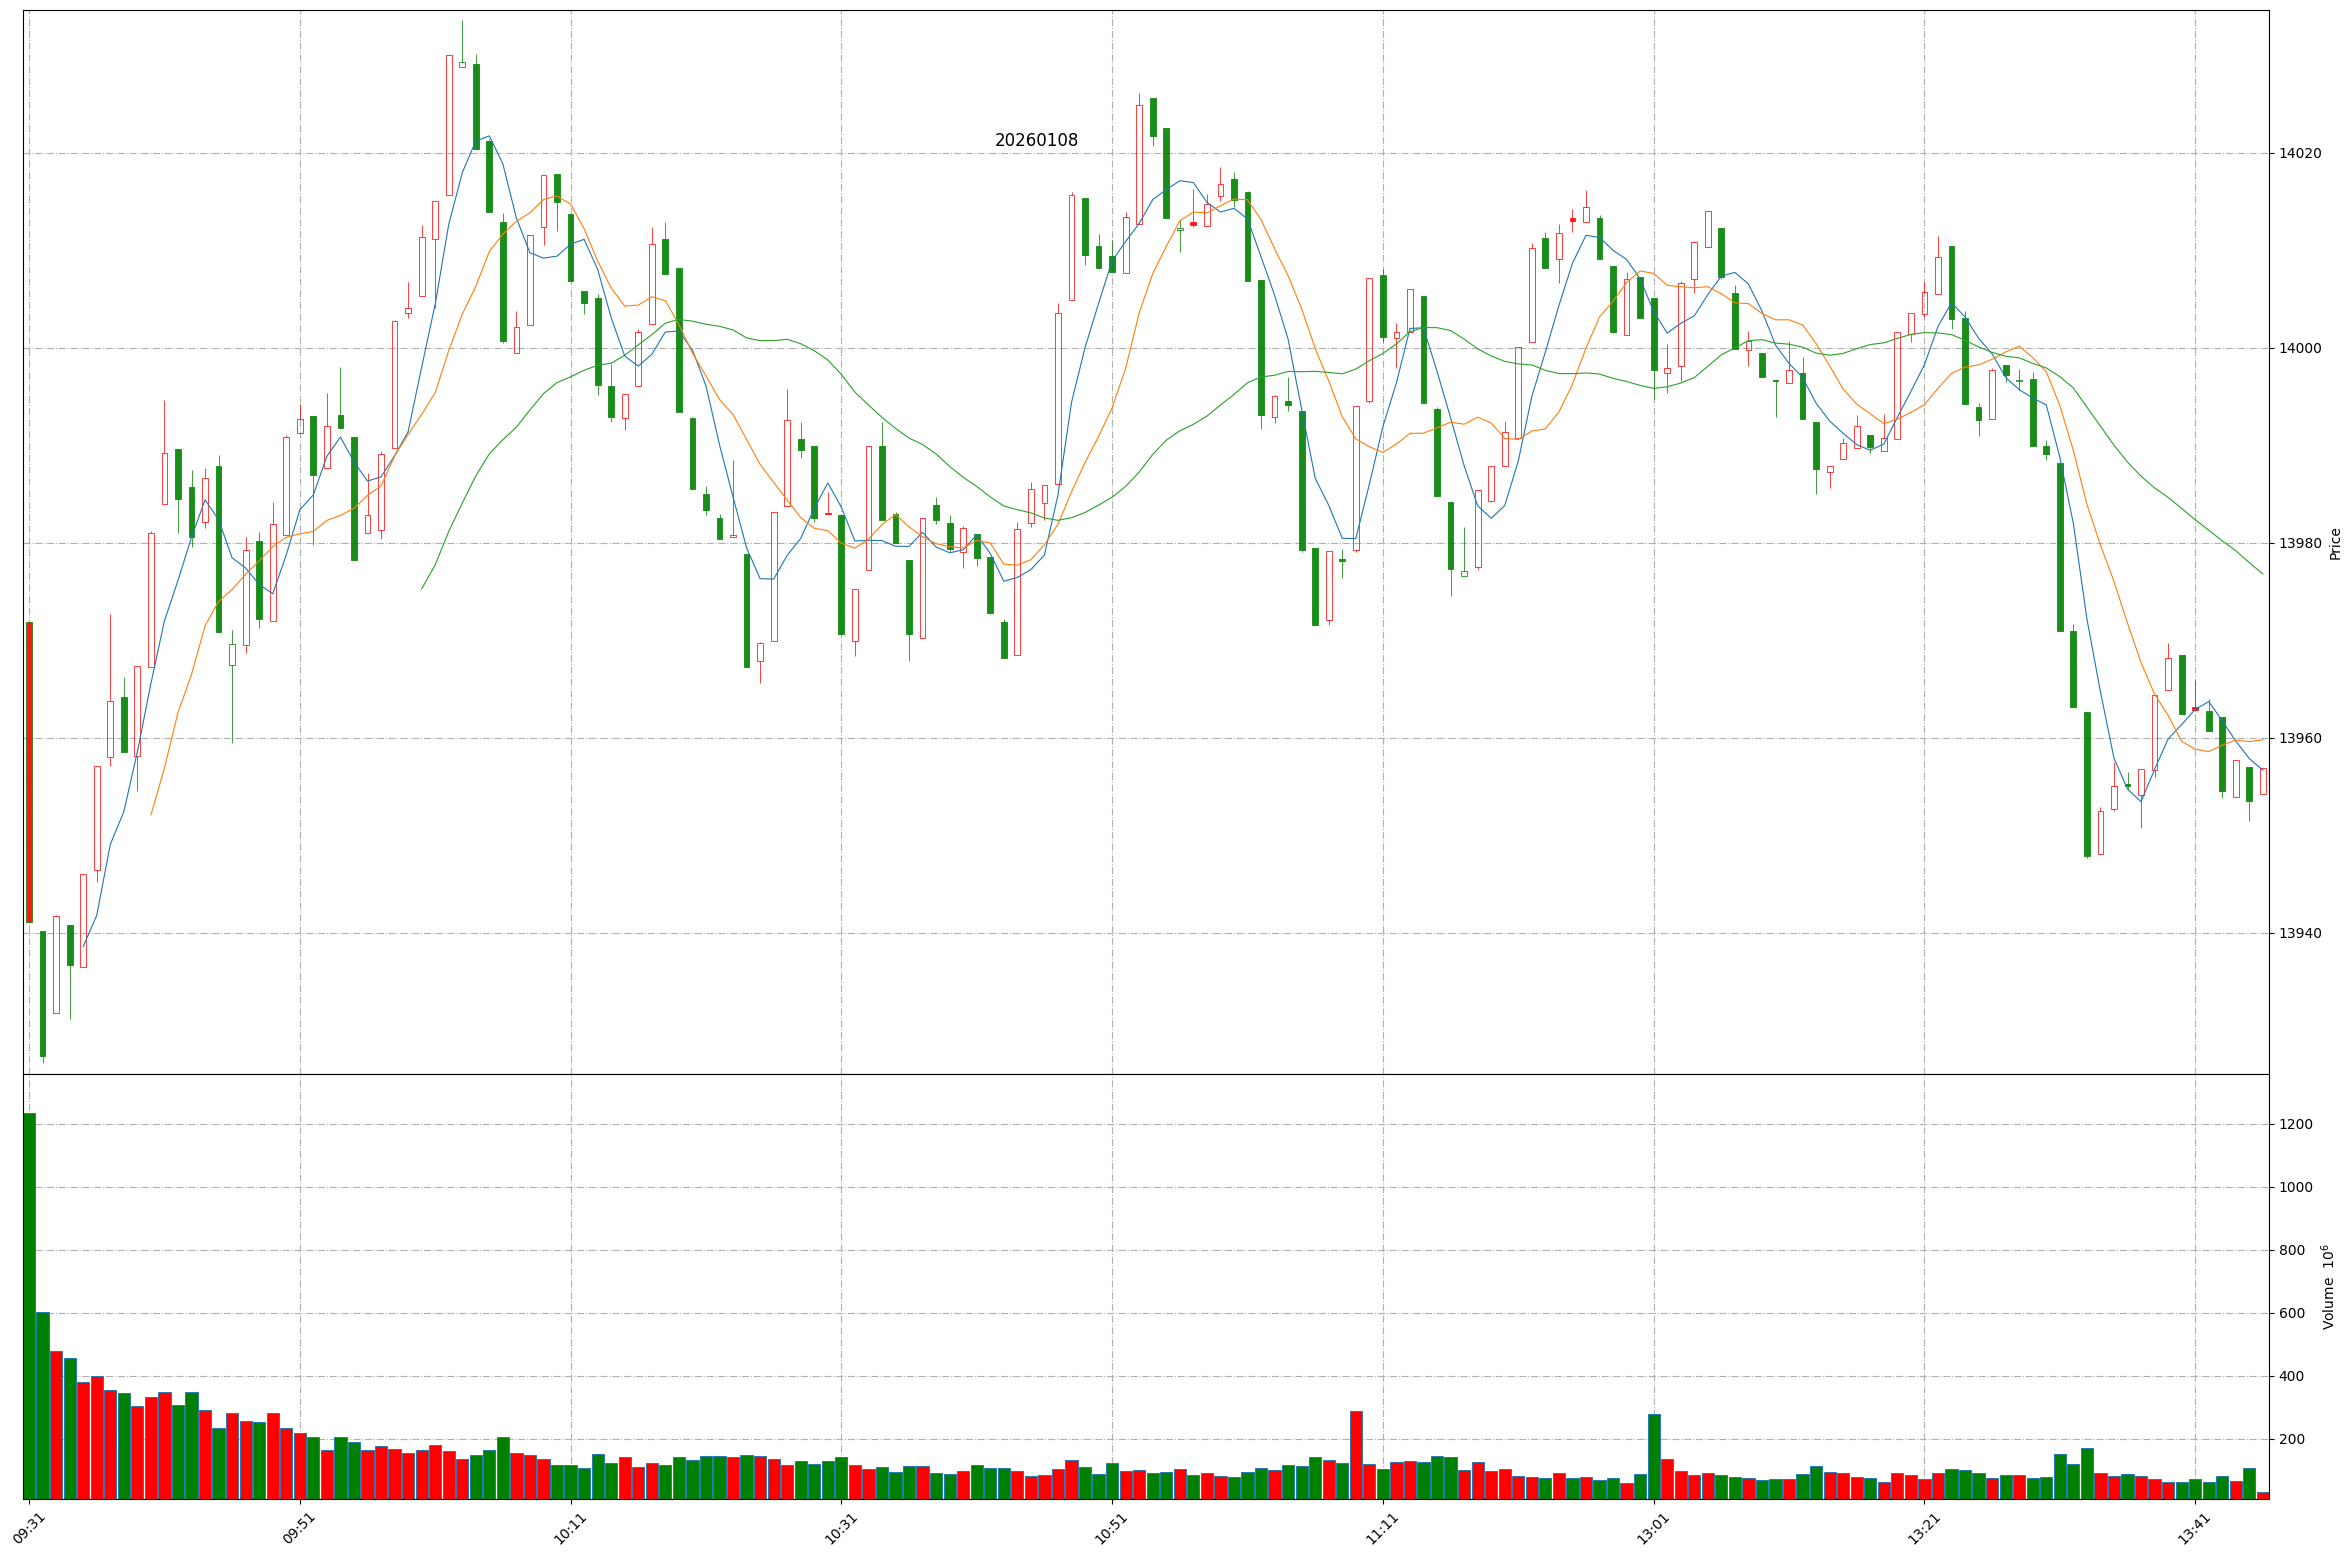
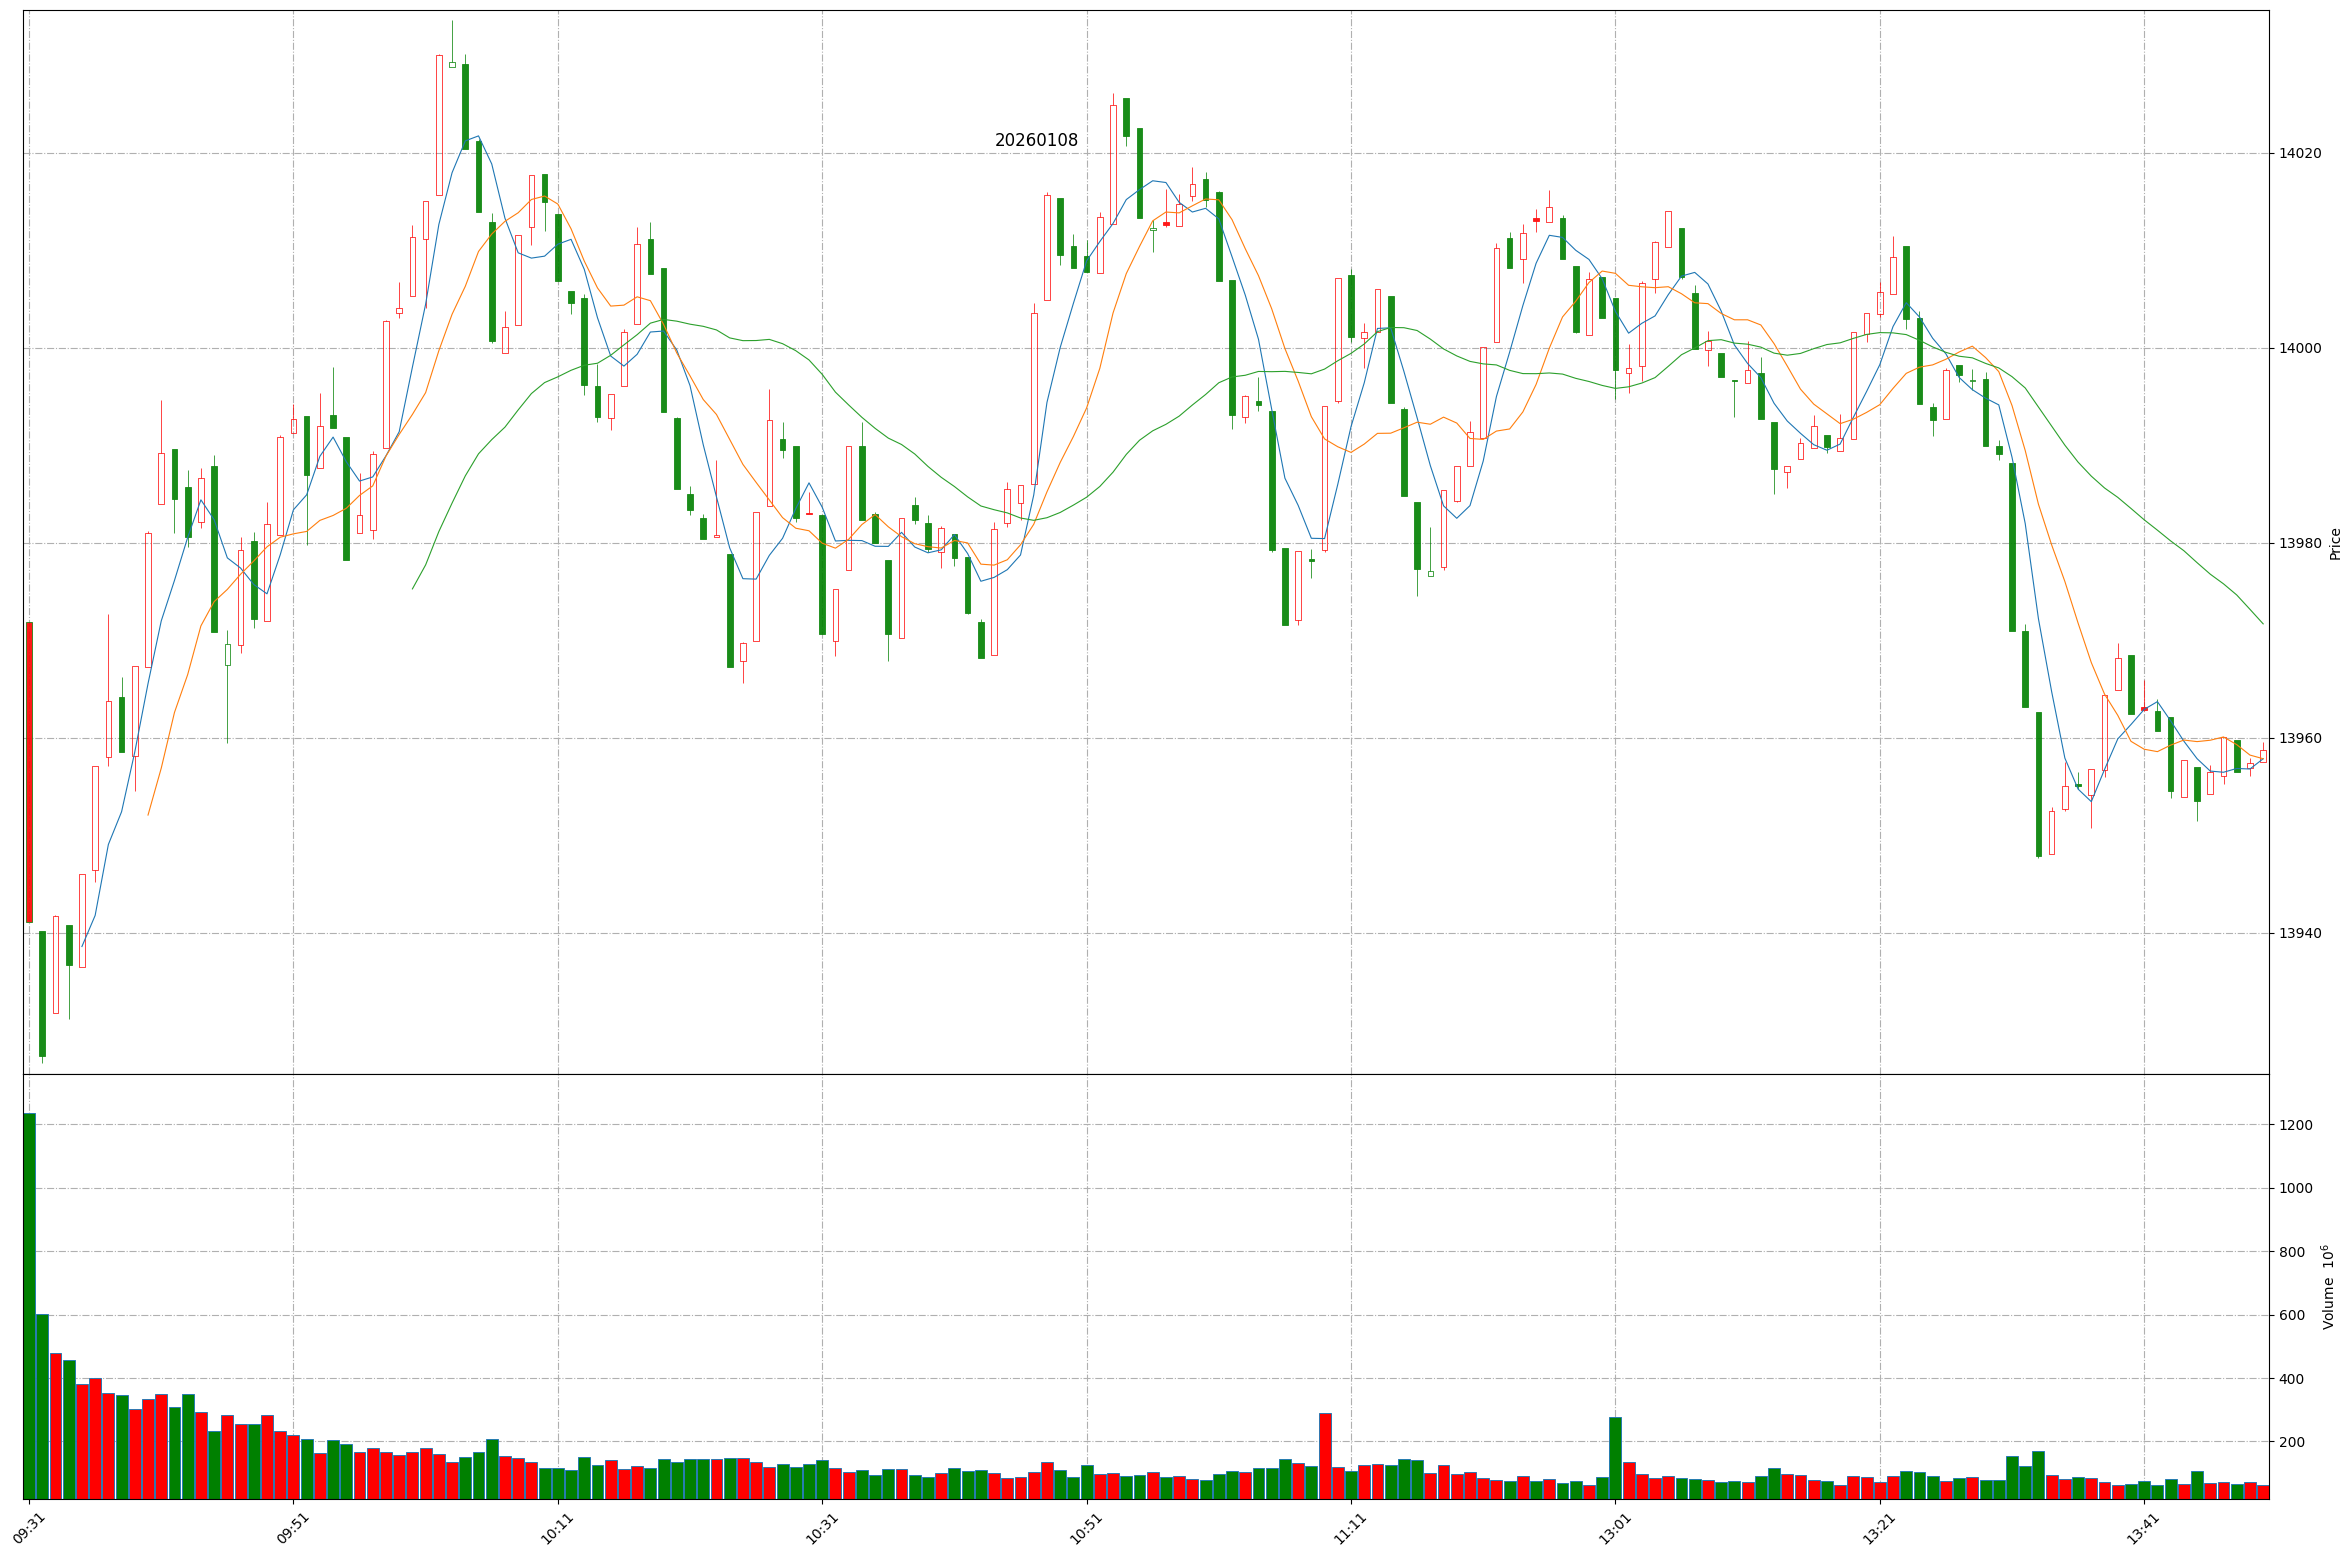
Github action update at 2026-01-08 13:50:10.

Changed region(s): [[0.0621, 0.0308, 0.9622, 0.5549], [0.031, 0.894, 0.9622, 0.9865], [0.031, 0.4316, 0.0621, 0.5857]]

diff --git a/README.md b/README.md
@@ -1,11 +1,11 @@
 
 # Daily-A-share-market-quotes 每日 A 股指数（5min 更新）- 20260108
 
-### 上证指数 20260108 13:45
+### 上证指数 20260108 13:50
 ![](./fig/2026/1/20260108-sh000001.png)
 
-### 深证成指 20260108 13:45
+### 深证成指 20260108 13:50
 ![](./fig/2026/1/20260108-sz399001.png)
 
-### 北证50 20260108 13:45
+### 北证50 20260108 13:50
 ![](./fig/2026/1/20260108-bj899050.png)
